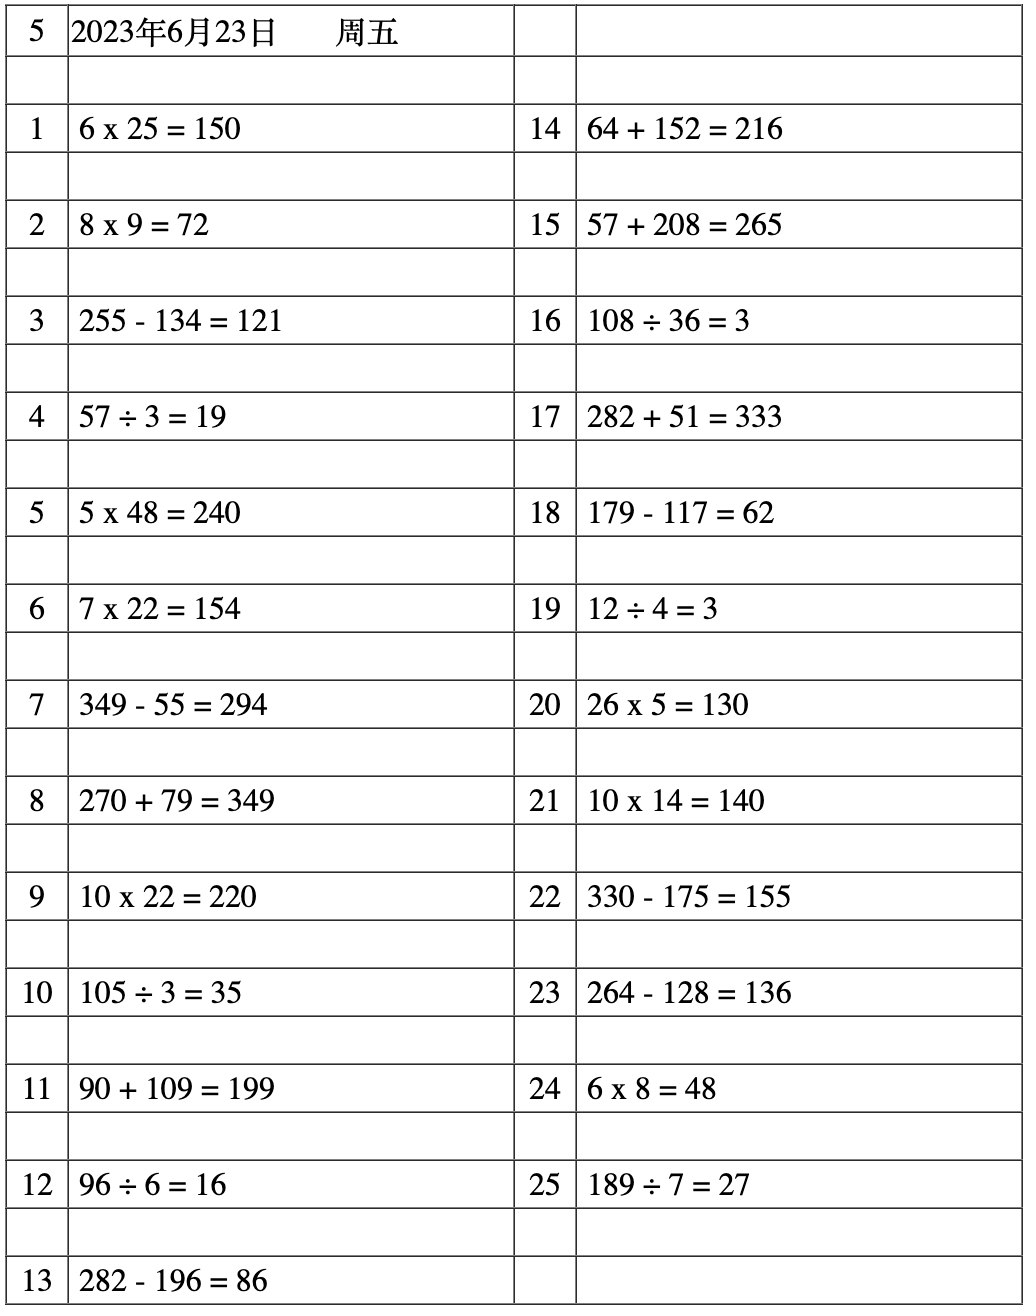
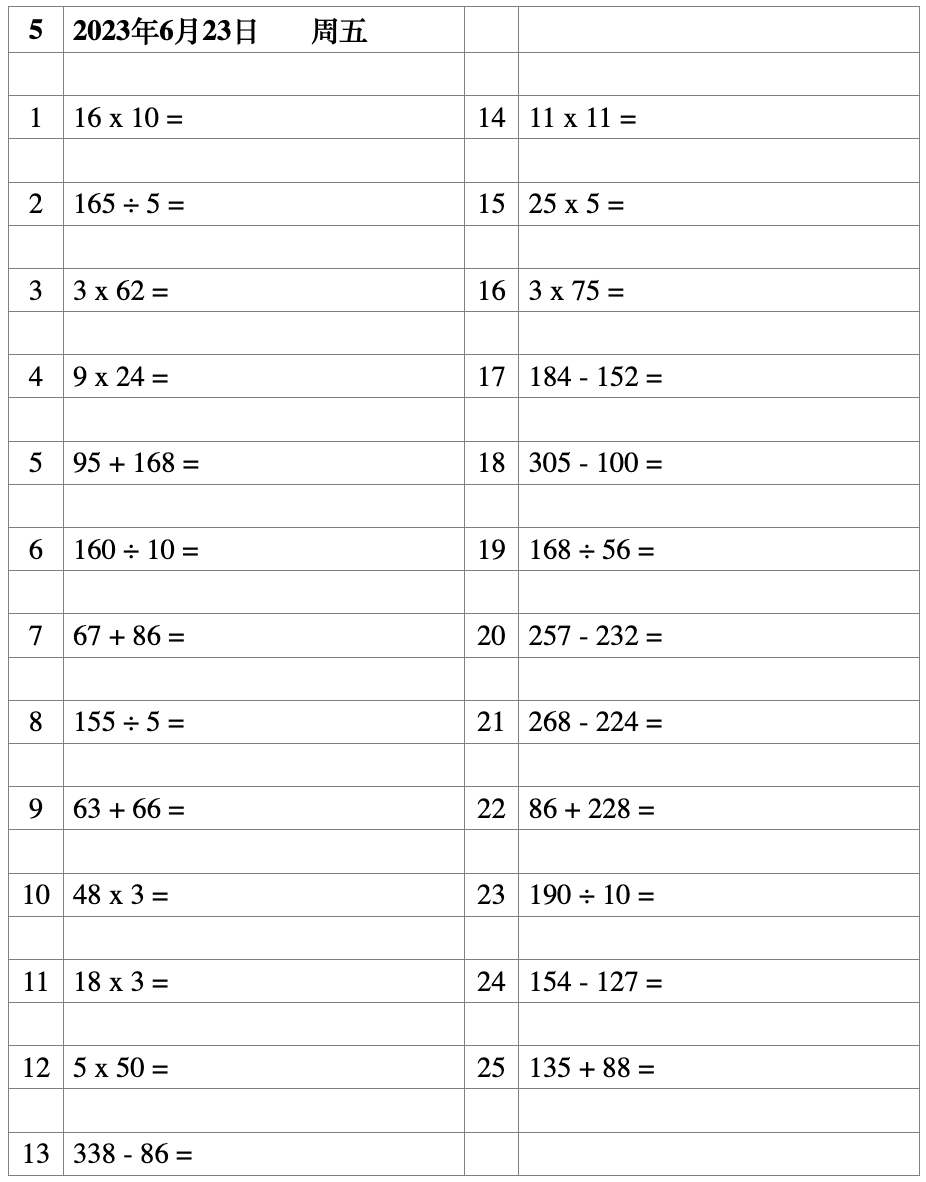
fixed bug: the answer now will not be shown on the quiz sheet.

Changed region(s): [[0.0, 0.0, 0.9978, 1.0]]

diff --git a/templates/quiz_sheet.html b/templates/quiz_sheet.html
@@ -3,8 +3,8 @@
 <body>
     <table border="1" style="border-collapse: collapse; margin: 0 auto;">
         <tr>
-            <td style="width: 28px; height: 24px; text-align: center;">{{sheet_serial_number}}</td>
-            <td style="width: 220px; height: 24px;">&nbsp;{{date}} &nbsp; &nbsp; &nbsp; {{dayofweek}}</td>
+            <td style="width: 28px; height: 24px; text-align: center;"><b>{{sheet_serial_number}}</b></td>
+            <td style="width: 220px; height: 24px;"><b>&nbsp;{{date}} &nbsp; &nbsp; &nbsp; {{dayofweek}}</b></td>
             <td style="width: 28px; height: 24px; text-align: center;">&nbsp;</td>
             <td style="width: 220px; height: 24px;">&nbsp;</td>
         </tr>

diff --git a/gen.py b/gen.py
@@ -112,7 +112,7 @@ def main(args):
     random.shuffle(generated_quizzes)
 
     args.output_path.parent.mkdir(parents=True, exist_ok=True)
-    
+
     with open(args.output_path, "w") as f:
         f.write("\n".join(generated_quizzes))
 
@@ -121,7 +121,9 @@ def main(args):
     with open(args.output_path.with_suffix(".html"), "w") as f:
         f.write(
             generate_quiz_sheet(
-                args.sheet_serial_number, args.sheet_date, generated_quizzes
+                args.sheet_serial_number,
+                args.sheet_date,
+                [q.split("=")[0] + "=" for q in generated_quizzes],
             )
         )
 
